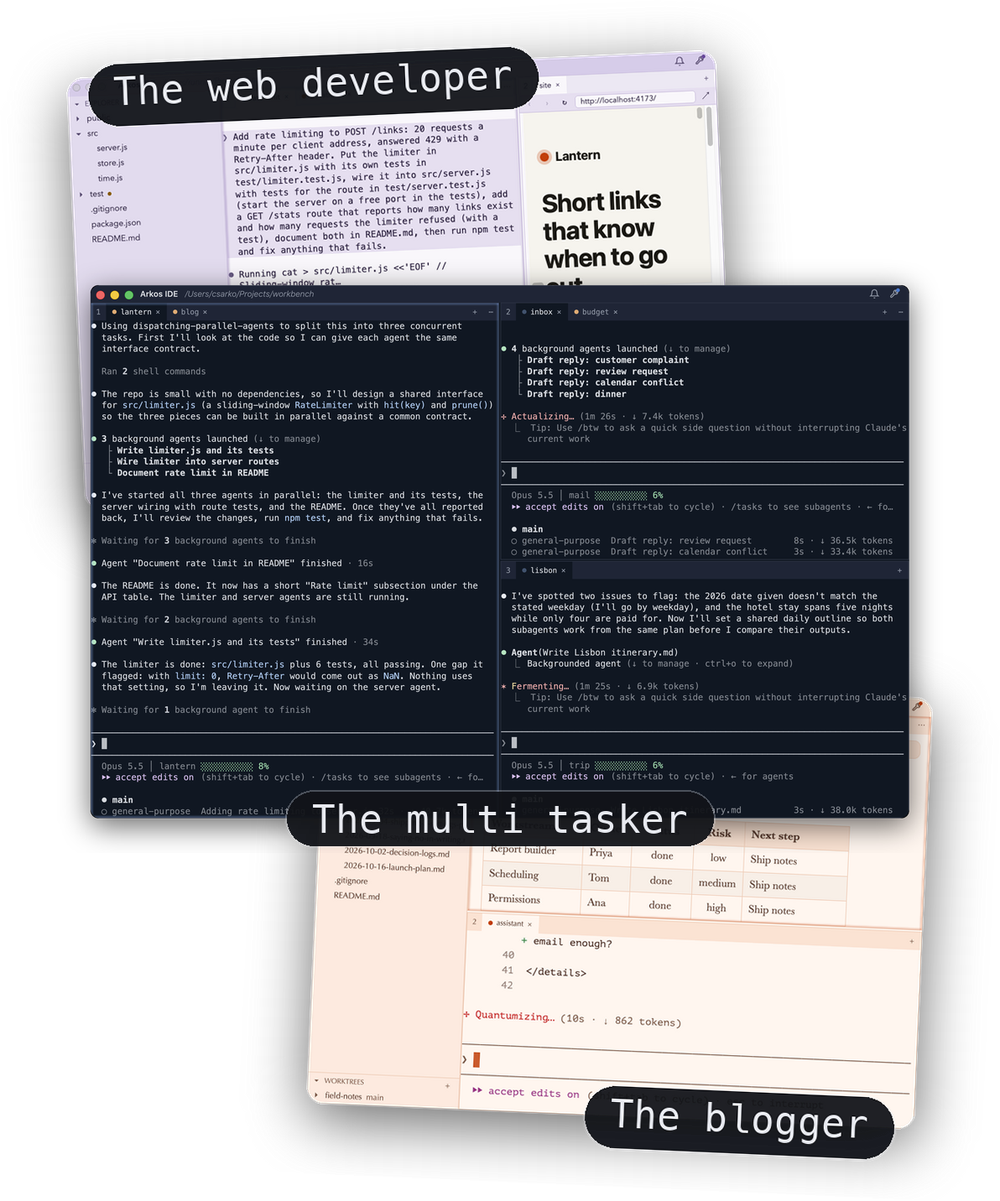
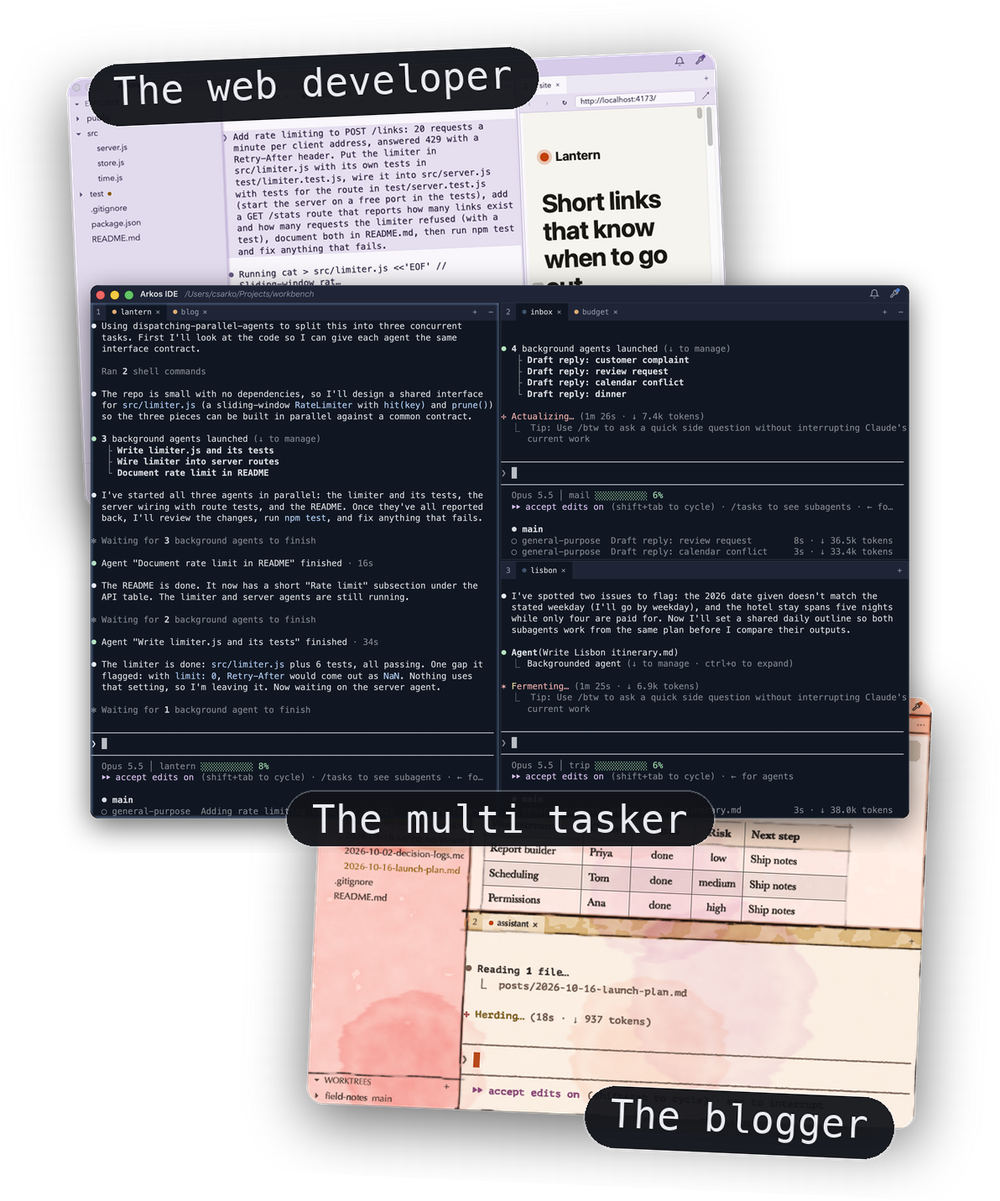
The Blogger reshot in Peach Light with the watercolor effect, the heroes recomposed
Shot on the cloud runner (shoot run 40774435593) from branch video-frame-ink, with the 1x ink
fix and the table's wash.

Changed region(s): [[0.31, 0.6778, 0.93, 0.9242], [0.899, 0.5853, 0.93, 0.647], [0.837, 0.6778, 0.868, 0.7086]]

diff --git a/README.md b/README.md
@@ -58,10 +58,12 @@ as a grid, a Mermaid diagram, a checklist and a folded open-questions section, a
 session beside it bringing the plan up to date from the review notes.
 
 The same work stacked, one pane above the other: the file on top with the caret in it, since
-the rendered view is also where you edit, and the session below.
+the rendered view is also where you edit, and the session below. It is shot in Peach Light,
+whose watercolor effect washes the window in the theme's pigments, inks the outlines of the
+panes and the table, and draws the text as if in ink.
 
 <picture>
-  <img alt="An Arkos IDE window with two panes one above the other: a launch plan rendered in the markdown editor on top, its status table drawn as a grid, with the caret in a heading showing its markdown source; below it a Claude Code session updating the plan from the notes" src="docs/images/blogger-dark.png" width="620">
+  <img alt="An Arkos IDE window in Peach Light with its watercolor effect, two panes one above the other: a launch plan rendered in the markdown editor on top, its status table drawn as a grid with an apricot wash over its header and an ink outline; below it a Claude Code session updating the plan from the notes, the window washed in peach and rose with ink lines round each pane" src="docs/images/blogger-dark.png" width="620">
 </picture>
 
 ## Privacy
